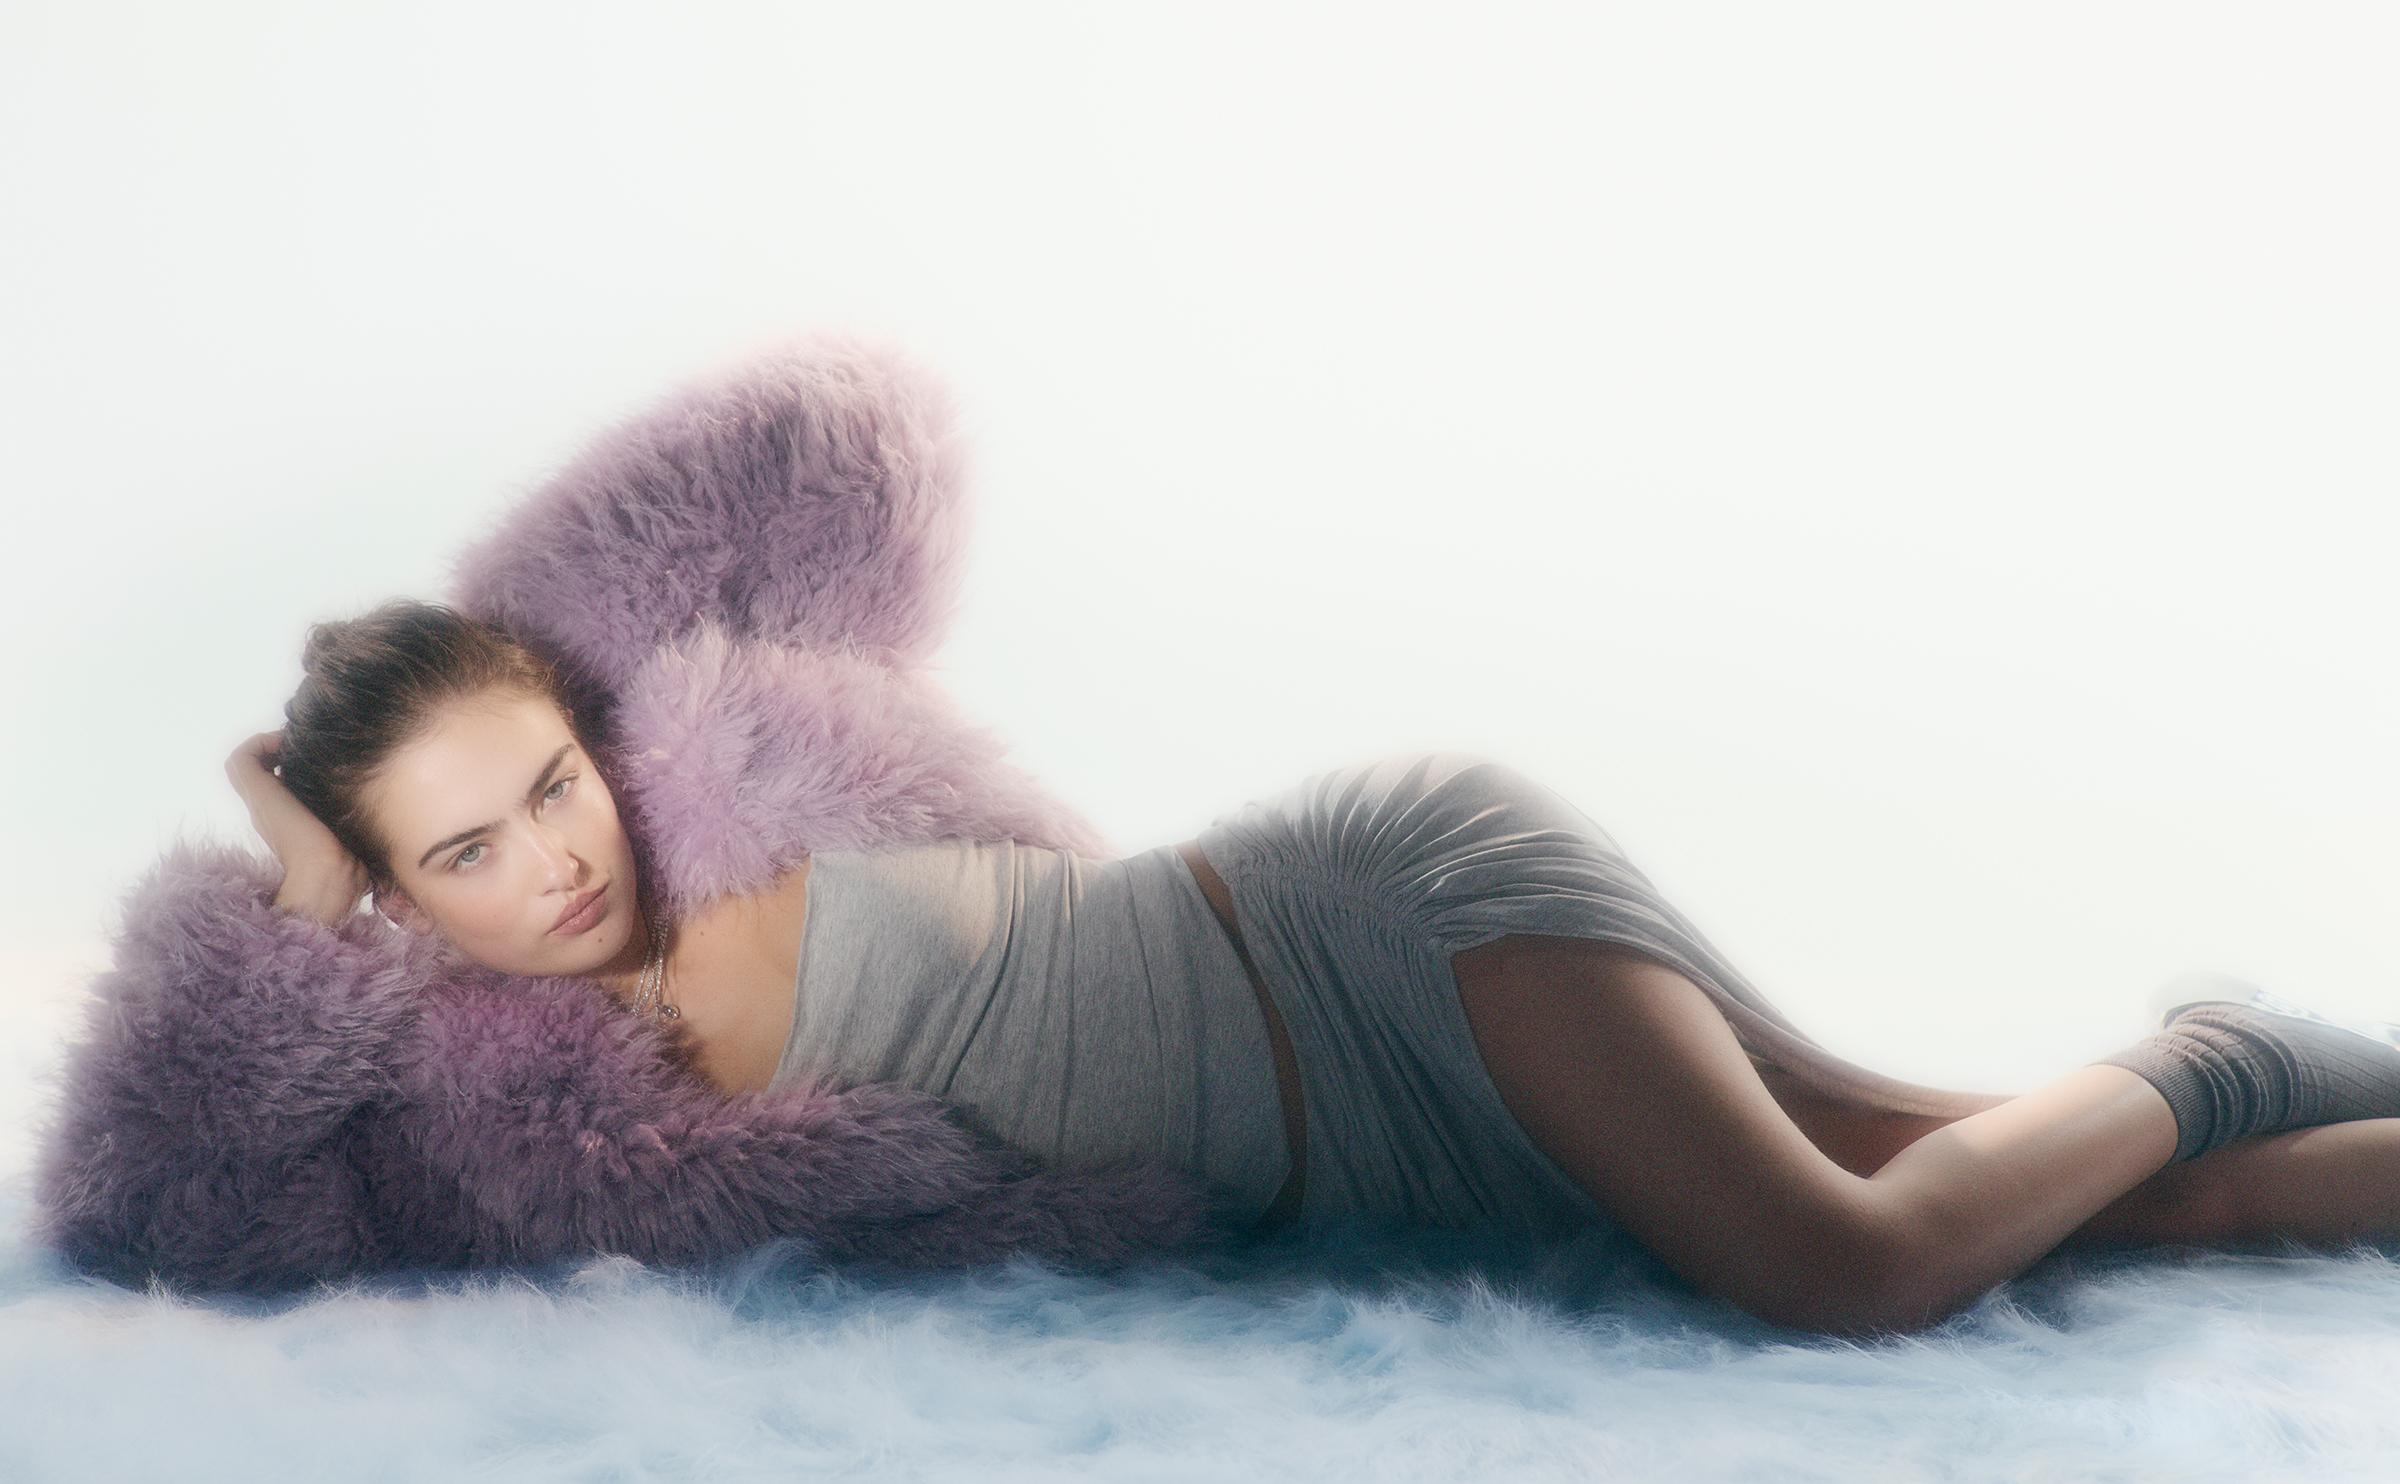
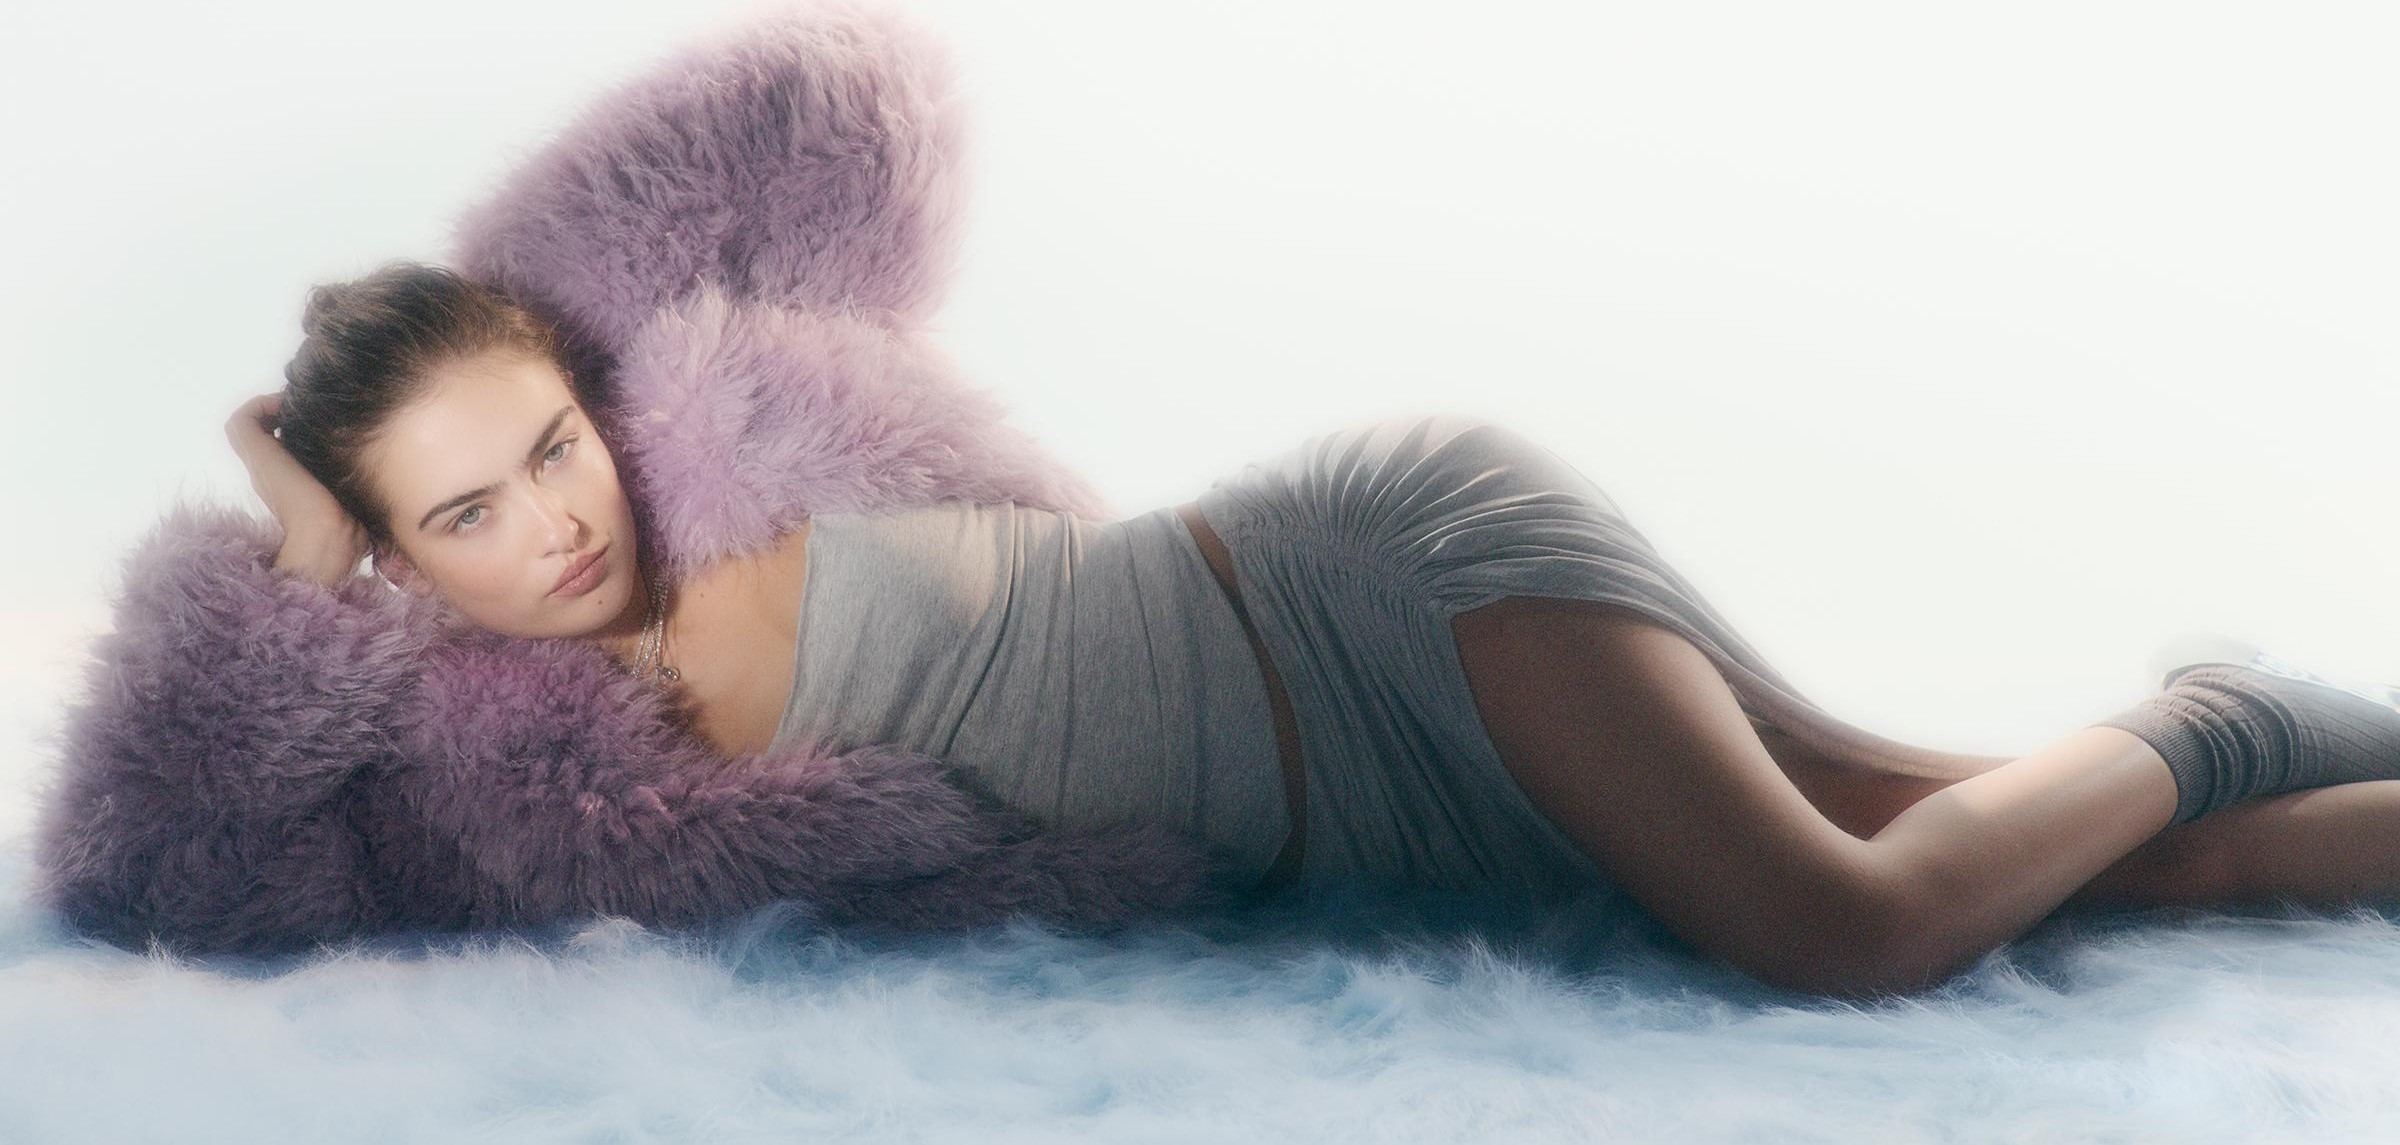
22/10/24 hombre.html en proceso

diff --git a/styles/hombre.css b/styles/hombre.css
@@ -114,12 +114,91 @@ header #login object{
     background-color: rgb(214, 214, 214);
 }
 
-section #jeans {
+#section1 #jeans {
     width: 100%;
-    height: 100vh;
     overflow: hidden;
+    text-align: center;
+    max-height: 93vh;
+    position: relative;
 }
 
-section #jeans img{
+#section1 #jeans img{
     width: 100%;
+}
+
+#section1 div{
+    position: absolute;
+    top: 47%;
+    width: 100%;
+}
+#section1 div a{
+        font-weight: bold;
+        color: white;
+        font-size: 20px;
+        background-color: rgba(0,0,0,0.5);
+        padding: 10px 20px;
+        text-decoration: none;
+        border-radius: 30px;
+        border: 2px solid white;
+}
+
+#section2 {
+    width: 100%;
+    height: 80vh;
+    overflow: hidden;
+    display: grid;
+    grid-template-columns: 33.3% 33.3% 33.3%;
+}
+
+#section2 article{
+    position: relative;
+}
+
+#section2 div{
+    position: absolute;
+    top: 42%;
+    width: 100%;
+    text-align: center;
+}
+#section2 div a{
+        font-weight: bold;
+        color: white;
+        font-size: 20px;
+        background-color: rgba(0,0,0,0.5);
+        padding: 10px 20px;
+        text-decoration: none;
+        border-radius: 30px;
+        border: 2px solid white;
+}
+
+#section2 img{
+    width: 100%;
+}
+
+@media (max-width: 1100px) {
+    .barra:hover {
+        width: 40%;
+    }
+
+    header {
+        height: 125px;
+    }
+
+    #selector {
+        height: 130vh;
+        grid-template-columns: 100%;
+        grid-template-rows: 50% 50%;
+    }
+
+    #selector #mujer,
+    #selector #hombre {
+        width: 100%;
+        overflow: hidden;
+        position: relative;
+    }
+    #section2{
+        grid-template-columns: 50% 50%;
+        grid-template-rows: 33.3%,33.3%;
+        height: 150vh;
+    }
 }

diff --git a/hombre/hombre.html b/hombre/hombre.html
@@ -37,10 +37,34 @@
             <object type="image/svg+xml" data="../icons/user_negro.svg" ></object>
         </div>
     </header>
-    <section>
+    <section id="section1">
         <article id="jeans">
-            <img src="https://static.bershka.net/assets/public/95de/d495/bf144bffbe15/5fc9c0fff454/06907407612-14-e/06907407612-14-e.jpg?ts=1729195177458&w=3840"/>
-            <input type="button"/>
+
+            <img src="https://shop.mango.com/cms-assets/v3/assets/blt351b9b24ac05a648/blt57f35019ed5616e4/67124ce8f827290affdaeaa2/LANDING-NN_Graphito.jpg?imdensity=1&im=RegionOfInterestCrop,width=1920,height=823,regionOfInterest=(1024,439)"/>
+
+            <div>
+                <a href="#"> NEW IN</a>
+            </div>
+        </article>
+    </section>
+    <section id="section2">
+        <article id="jackets">
+            <img src="https://static.pullandbear.net/assets/public/d67e/da43/cbb5401bb07a/0e95bae7f539/APPSUDADERA/APPSUDADERA.jpg?ts=1728998947091&w=476"/>
+            <div>
+                <a href="#"> NEW IN</a>
+            </div>
+        </article>
+        <article id="jackets">
+            <img src="https://static.pullandbear.net/assets/public/7ab0/3b88/b33a4d1cacad/e711281daf05/APPPANTALON/APPPANTALON.jpg?ts=1728998635784&w=476"/>
+            <div>
+                <a href="#"> NEW IN</a>
+            </div>
+        </article>
+        <article id="jackets">
+            <img src="https://static.pullandbear.net/assets/public/0dcf/3d68/524348b2b4f4/bf69a1203d1b/APPCAZADORA/APPCAZADORA.jpg?ts=1729066675343&w=476"/>
+            <div>
+                <a href="#"> NEW IN</a>
+            </div>
         </article>
     </section>
 </body>
